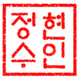
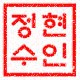
index date align right

diff --git a/eas/templates/eas/detail_r.html b/eas/templates/eas/detail_r.html
@@ -85,7 +85,7 @@
 
                           <td width = "150px">
                           {% if new_Request.aaa == "승인" %}
-                           <div id="24"><img src="/static/img/hyunsoo.JPG" class="img-fluid" alt="24" id="secondcheck"></div>
+                           <div id="24"><img src="/static/img/hyunsoo_1.JPG" class="img-fluid" alt="24" id="secondcheck"></div>
                           {% elif new_Request.aaa == "반려" %}
                            <div id="24_1"><img src="/static/img/reject_img.jpg" class="img-fluid" alt="24_1" id="secondcheck1"></div>
                           {% else %}
